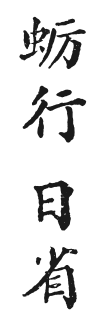
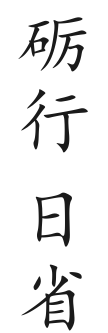
fix: 砺字楷体修正 + 封面题签居中入框

diff --git a/static/index.html b/static/index.html
@@ -8,6 +8,14 @@
   <style>
     @font-face {
       font-family: "GuoWen ZhengKai";
+      src: url("assets/fonts/LixingFix.ttf") format("truetype");
+      unicode-range: U+783A-783B;
+      font-weight: normal;
+      font-style: normal;
+      font-display: swap;
+    }
+    @font-face {
+      font-family: "GuoWen ZhengKai";
       src: url("assets/fonts/KaiOldstyle.ttf") format("truetype");
       font-weight: normal;
       font-style: normal;
@@ -121,10 +129,14 @@
     }
     .cover-title {
       position: absolute;
-      left: 31.5%;
-      top: 19%;
-      height: 44%;
+      left: 29.1%;
+      top: 20.1%;
+      height: 66%;
       width: auto;
+      max-width: 12%;
+      transform: translateX(-50%);
+      object-fit: contain;
+      object-position: center center;
       pointer-events: none;
       filter: drop-shadow(0 1px 1px rgba(0,0,0,0.25));
     }
